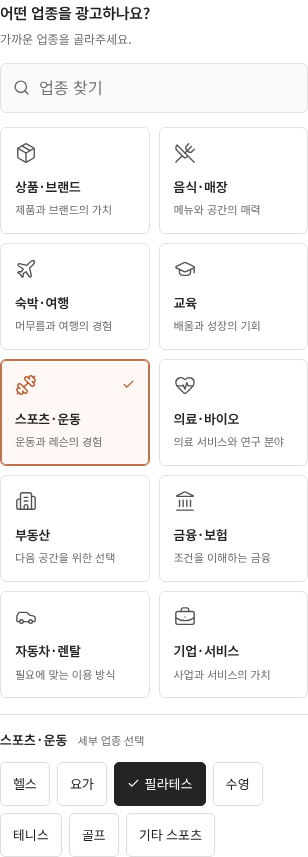
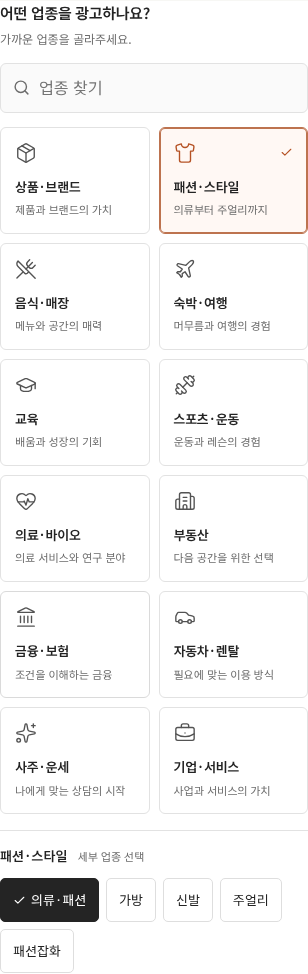
Expose fashion as a primary industry with product subcategories

diff --git a/src/industry.ts b/src/industry.ts
@@ -1,7 +1,7 @@
 // Stable leaf IDs keep saved projects compatible while the UI groups choices visually.
 export const productCategories = [
   ['packaging', '포장재'], ['food', '식품·음료'], ['beauty', '뷰티·생활용품'],
-  ['electronics', '전자제품'], ['fashion', '의류·패션잡화'], ['home', '가구·인테리어'],
+  ['electronics', '전자제품'], ['fashion', '의류·패션'], ['home', '가구·인테리어'],
   ['industrial', '산업용 부품·장비'], ['automotive', '자동차·모빌리티'],
   ['education', '교육·강의'], ['insurance', '보험'], ['services', '서비스 업종'], ['other', '기타 실물 상품'],
   ['restaurant', '음식점'], ['cafe', '카페·디저트'], ['lodging', '호텔·숙박'], ['travel', '여행'],
@@ -12,6 +12,7 @@ export const productCategories = [
   ['finance', '금융'], ['banking', '은행'], ['lease', '리스'], ['rental', '렌탈'],
   ['corporate', '기업 홍보'],
   ['tarot', '타로'], ['astrology', '별자리'], ['myeongri', '명리학'], ['sinjeom', '신점'],
+  ['bags', '가방'], ['shoes', '신발'], ['jewelry', '주얼리'], ['accessories', '패션잡화'],
 ] as const;
 export type ProductCategory = typeof productCategories[number][0];
 const legacyCategories:Readonly<Record<string,ProductCategory>>={saju:'myeongri',fortunehouse:'myeongri',divination:'sinjeom'};
@@ -19,10 +20,11 @@ export function resolveIndustryCategory(value:unknown):ProductCategory|undefined
   const category=typeof value==='string'?(legacyCategories[value]??value):undefined;
   return productCategories.find(([id])=>id===category)?.[0];
 }
-export type IndustryGroupId = 'products'|'dining'|'travel'|'learning'|'sports'|'health'|'property'|'finance'|'mobility'|'fortune'|'business';
+export type IndustryGroupId = 'products'|'fashion'|'dining'|'travel'|'learning'|'sports'|'health'|'property'|'finance'|'mobility'|'fortune'|'business';
 export type IndustryGroup = {id:IndustryGroupId;label:string;description:string;categoryIds:readonly ProductCategory[]};
 export const industryGroups:readonly IndustryGroup[] = [
-  {id:'products',label:'상품·브랜드',description:'제품과 브랜드의 가치',categoryIds:['packaging','food','beauty','electronics','fashion','home','industrial','other']},
+  {id:'products',label:'상품·브랜드',description:'제품과 브랜드의 가치',categoryIds:['packaging','food','beauty','electronics','home','industrial','other']},
+  {id:'fashion',label:'패션·스타일',description:'의류부터 주얼리까지',categoryIds:['fashion','bags','shoes','jewelry','accessories']},
   {id:'dining',label:'음식·매장',description:'메뉴와 공간의 매력',categoryIds:['restaurant','cafe']},
   {id:'travel',label:'숙박·여행',description:'머무름과 여행의 경험',categoryIds:['lodging','travel']},
   {id:'learning',label:'교육',description:'배움과 성장의 기회',categoryIds:['education']},
@@ -34,7 +36,7 @@ export const industryGroups:readonly IndustryGroup[] = [
   {id:'fortune',label:'사주·운세',description:'나에게 맞는 상담의 시작',categoryIds:['tarot','astrology','myeongri','sinjeom']},
   {id:'business',label:'기업·서비스',description:'사업과 서비스의 가치',categoryIds:['services','corporate']},
 ];
-const physicalCategories:readonly ProductCategory[] = ['packaging','food','beauty','electronics','fashion','home','industrial','other','automotive'];
+const physicalCategories:readonly ProductCategory[] = ['packaging','food','beauty','electronics','fashion','home','industrial','other','automotive','bags','shoes','jewelry','accessories'];
 export const isPhysicalCategory = (category:ProductCategory) => physicalCategories.includes(category);
 export function industryGroupFor(category:ProductCategory):IndustryGroup {
   return industryGroups.find(group=>group.categoryIds.includes(category))!;
@@ -68,10 +70,30 @@ const content:Record<ProductCategory,IndustryContent> = {
     ['제품 안내','입력한 기능과 사용 목적','내 일상에 맞는 기술을 만나보세요','제품 보기'],
     ['기능·사양 소개','확인된 기능과 호환 정보','사용 전에 확인하는 제품 사양','사양 보기'],
   ]},
-  fashion:{placeholder:'예: 브랜드 가죽 가방',audience:'디자인과 소재를 비교하는 패션 고객',directions:[
-    ['브랜드 소개','브랜드의 스타일과 분위기','취향을 표현하는 한 가지 선택','컬렉션 보기'],
-    ['제품 안내','스타일링과 사용 장면','오늘의 스타일을 만나보세요','제품 보기'],
-    ['소재·디테일 소개','제공한 소재와 사이즈 정보','디테일로 살펴보는 나의 선택','상세 정보 보기'],
+  fashion:{placeholder:'예: 브랜드 울 재킷',audience:'디자인과 소재·사이즈를 비교하는 패션 고객',directions:[
+    ['컬렉션 소개','브랜드의 스타일과 분위기','취향을 표현하는 한 가지 선택','컬렉션 보기'],
+    ['제품·스타일링','제품과 함께하는 일상의 장면','오늘의 스타일을 만나보세요','제품 보기'],
+    ['소재·사이즈 안내','제공한 소재와 사이즈 정보','디테일로 살펴보는 나의 선택','상세 정보 보기'],
+  ]},
+  bags:{placeholder:'예: 브랜드 레더 숄더백',audience:'가방의 디자인·소재·수납 구성을 비교하는 고객',directions:[
+    ['컬렉션 소개','가방과 브랜드의 분위기','나의 취향을 담는 가방','컬렉션 보기'],
+    ['제품·스타일링','가방과 어울리는 스타일','오늘의 스타일에 더하는 한 가지','가방 보기'],
+    ['소재·디테일 안내','제공한 소재·크기·수납 정보','선택 전에 살펴보는 가방의 디테일','제품 정보 보기'],
+  ]},
+  shoes:{placeholder:'예: 브랜드 레더 스니커즈',audience:'신발의 디자인·소재·사이즈를 비교하는 고객',directions:[
+    ['컬렉션 소개','신발과 브랜드의 분위기','발끝에서 시작하는 나의 스타일','컬렉션 보기'],
+    ['제품·스타일링','신발과 일상의 스타일링','오늘의 옷차림에 어울리는 선택','신발 보기'],
+    ['소재·사이즈 안내','제공한 소재·사이즈·관리 정보','구매 전에 살펴보는 신발 정보','사이즈 안내 보기'],
+  ]},
+  jewelry:{placeholder:'예: 브랜드 실버 링',audience:'주얼리의 디자인·소재·사이즈를 살펴보는 고객',directions:[
+    ['컬렉션 소개','주얼리의 형태와 브랜드 분위기','작은 디테일에 담는 나의 취향','컬렉션 보기'],
+    ['제품·스타일링','주얼리와 함께하는 스타일','일상에 더하는 하나의 포인트','주얼리 보기'],
+    ['소재·디테일 안내','제공한 소재·크기·관리 정보','선택 전에 살펴보는 주얼리 정보','상세 정보 보기'],
+  ]},
+  accessories:{placeholder:'예: 브랜드 실크 스카프',audience:'모자·벨트·스카프 등 패션잡화를 비교하는 고객',directions:[
+    ['컬렉션 소개','잡화와 브랜드의 스타일','취향을 완성하는 작은 선택','컬렉션 보기'],
+    ['제품·스타일링','잡화와 어울리는 옷차림','오늘의 스타일에 포인트를 더하세요','제품 보기'],
+    ['소재·디테일 안내','제공한 소재·크기·관리 정보','디테일로 살펴보는 패션잡화','상세 정보 보기'],
   ]},
   home:{placeholder:'예: 원목 라운지 체어',audience:'공간과 제품의 어울림을 비교하는 고객',directions:[
     ['공간 제안','취향이 담긴 공간의 분위기','내 취향으로 채우는 공간','컬렉션 보기'],

diff --git a/tests/industries.spec.ts b/tests/industries.spec.ts
@@ -20,12 +20,14 @@ async function serviceWizard(page:Page,category:string,name:string,creative=fals
  await wizard.getByRole('button',{name:'다음',exact:true}).click();return wizard;
 }
 
-test('eleven visual groups reveal only their own industries and all thirty-eight are searchable',async({page})=>{
+test('twelve visual groups expose fashion directly and all forty-two industries are searchable',async({page})=>{
  test.setTimeout(60000);await page.goto('/');
- await expect(page.locator('.business-options').getByRole('button')).toHaveCount(11);
- await page.getByRole('button',{name:'스포츠·운동 업종으로 광고 만들기',exact:true}).click();
+ await expect(page.locator('.business-options').getByRole('button')).toHaveCount(12);
+ await expect(page.locator('.business-options').getByRole('button').nth(1)).toHaveAccessibleName('패션·스타일 업종으로 광고 만들기');
+ await page.getByRole('button',{name:'패션·스타일 업종으로 광고 만들기',exact:true}).click();
  const wizard=page.locator('.create-page:visible'),picker=wizard.getByRole('group',{name:'업종 선택',exact:true});
- await expect(picker.getByRole('group',{name:'업종 그룹',exact:true}).getByRole('button')).toHaveCount(11);
+ await expect(picker.getByRole('group',{name:'패션·스타일 세부 업종',exact:true}).getByRole('button')).toHaveText(['의류·패션','가방','신발','주얼리','패션잡화']);
+ await expect(picker.getByRole('group',{name:'업종 그룹',exact:true}).getByRole('button')).toHaveCount(12);
  for(const group of industryGroups){
   await picker.getByRole('button',{name:group.label+' 업종 그룹',exact:true}).click();
   const options=picker.getByRole('group',{name:group.label+' 세부 업종',exact:true});

diff --git a/src/IndustryPicker.tsx b/src/IndustryPicker.tsx
@@ -1,11 +1,11 @@
 import {useEffect,useId,useRef,useState} from 'react';
-import {ArrowRight,BriefcaseBusiness,Building2,Car,Check,ChevronDown,Dumbbell,GraduationCap,HeartPulse,Landmark,Package,Plane,Search,Sparkles,UtensilsCrossed,X} from 'lucide-react';
+import {ArrowRight,BriefcaseBusiness,Building2,Car,Check,ChevronDown,Dumbbell,GraduationCap,HeartPulse,Landmark,Package,Plane,Search,Shirt,Sparkles,UtensilsCrossed,X} from 'lucide-react';
 import type {LucideIcon} from 'lucide-react';
 import {industryGroups,industryGroupFor,industryLabel,productCategories} from './industry';
 import type {ProductCategory} from './product';
 import './industry-picker.css';
 
-export const industryGroupIcons:Record<string,LucideIcon>={products:Package,dining:UtensilsCrossed,travel:Plane,learning:GraduationCap,sports:Dumbbell,health:HeartPulse,property:Building2,finance:Landmark,mobility:Car,fortune:Sparkles,business:BriefcaseBusiness};
+export const industryGroupIcons:Record<string,LucideIcon>={products:Package,fashion:Shirt,dining:UtensilsCrossed,travel:Plane,learning:GraduationCap,sports:Dumbbell,health:HeartPulse,property:Building2,finance:Landmark,mobility:Car,fortune:Sparkles,business:BriefcaseBusiness};
 export function IndustryIcon({groupId,size=22}:{groupId:string;size?:number}){const Icon=industryGroupIcons[groupId]??BriefcaseBusiness;return <Icon size={size} strokeWidth={1.5} aria-hidden="true"/>;}
 type Props={value:ProductCategory;onChange:(category:ProductCategory)=>void;compact?:boolean};
 const normalize=(text:string)=>text.toLocaleLowerCase().replace(/[\s·・,\-]/g,'');

diff --git a/docs/industry-advertising.md b/docs/industry-advertising.md
@@ -2,11 +2,12 @@
 
 ## 선택 화면
 
-홈과 새 광고 만들기에 대표 업종 11개를 카드로 배치했다. 선택한 그룹의 세부 업종만 펼쳐지며 검색으로 바로 선택할 수도 있다. 편집기의 업종 선택은 현재 선택한 업종 행으로 접어 두고 필요할 때 변경한다. 긴 전체 목록을 상시 표시하지 않는다.
+홈과 새 광고 만들기에 대표 업종 12개를 카드로 배치했다. 패션·스타일은 첫 줄의 독립 카드로 바로 찾을 수 있다. 선택한 그룹의 세부 업종만 펼쳐지며 검색으로 바로 선택할 수도 있다. 편집기의 업종 선택은 현재 선택한 업종 행으로 접어 두고 필요할 때 변경한다. 긴 전체 목록을 상시 표시하지 않는다.
 
 | 대표 그룹 | 세부 업종 |
 |---|---|
-| 상품·브랜드 | 포장재, 식품·음료, 뷰티·생활용품, 전자제품, 의류·패션잡화, 가구·인테리어, 산업용 부품·장비, 기타 실물 상품 |
+| 상품·브랜드 | 포장재, 식품·음료, 뷰티·생활용품, 전자제품, 가구·인테리어, 산업용 부품·장비, 기타 실물 상품 |
+| 패션·스타일 | 의류·패션, 가방, 신발, 주얼리, 패션잡화 |
 | 음식·매장 | 음식점, 카페·디저트 |
 | 숙박·여행 | 호텔·숙박, 여행 |
 | 교육 | 교육·강의 |
@@ -18,11 +19,13 @@
 | 기업·서비스 | 서비스 업종, 기업 홍보 |
 | 사주·운세 | 타로, 별자리, 명리학, 신점 |
 
-총 38개 분류이며, 위 표는 개발·검토용 전체 목록이다. 앱에서는 그룹과 선택한 세부 업종으로 나누어 보여준다. 사주·운세 카드를 열면 타로·별자리·명리학·신점 네 가지를 선택할 수 있다.
+총 42개 분류이며, 위 표는 개발·검토용 전체 목록이다. 앱에서는 그룹과 선택한 세부 업종으로 나누어 보여준다. 패션·스타일 카드는 의류·패션, 가방, 신발, 주얼리, 패션잡화 다섯 가지로 구분한다. 사주·운세 카드를 열면 타로·별자리·명리학·신점 네 가지를 선택할 수 있다.
 
 ## 요청문 없이 고르는 제작 방향
 
 새 제작은 업종과 이름 → 사진·정보 → 광고 방향으로 이어진다. 업종별 목적 카드 3개와 공통 시각 스타일 4개를 제공한다. 목적의 이름·문구·행동 안내는 업종에 맞게 바뀐다. 예를 들어 음식점은 매장 소개/방문·예약 안내/메뉴 이야기, 필라테스는 스튜디오 소개/수업·체험 안내/프로그램 소개, 은행은 은행·서비스 소개/이용·상담 안내/상품·조건 안내를 고른다.
+
+패션·스타일의 다섯 분야는 컬렉션·제품 소개와 소재·디테일 등 대상에 맞는 방향을 고를 수 있다. 자유 요청을 작성하지 않아도 추천 방향과 스타일 선택으로 시작한다.
 
 사주·운세의 네 분야는 각각 소개, 상담·예약, 이용 정보의 세 방향을 제공한다. 상담 분야·이용 방법 등 사업자가 제공한 정보를 바탕으로 구성한다.
 
@@ -34,13 +37,13 @@
 
 ## 상품·서비스·규격
 
-서비스 29종은 사진과 규격 없이 시작할 수 있다. 실물 상품 8종과 자동차는 원본 사진으로 직접 구성할 때 사진이 필요하다. 실제 음식 제품은 ‘식품·음료’, 음식점·메뉴·매장 안내는 ‘음식점’처럼 광고 대상에 맞춰 선택한다.
+서비스 29종은 사진과 규격 없이 시작할 수 있다. 실물 상품 12종과 자동차는 원본 사진으로 직접 구성할 때 사진이 필요하다. 실제 음식 제품은 ‘식품·음료’, 음식점·메뉴·매장 안내는 ‘음식점’처럼 광고 대상에 맞춰 선택한다.
 
 모든 업종에서 필요한 경우 규격 정보 사용을 켜고 형식과 표시 여부를 선택할 수 있다. 현재 치수 입력은 실물의 mm 치수다. 부동산 면적·이용 기간·수량·요금 등 다른 단위의 사업 정보는 서비스 소개나 추가 속성으로 입력한다. 업종을 서비스로 바꾸면 규격 사용·표시를 끄되 기존 치수 값과 사진·문구를 지우지 않는다. 원본 보존/창작 선택과 규격 표시 선택은 별도로 유지한다.
 
 ## 저장과 생성 요청
 
-기존 프로젝트 형식을 유지하며 이전 사주·궁합과 철학관 프로젝트는 명리학으로, 점·무속 프로젝트는 신점으로 복원한다. JSON 가져오기와 기기 저장본 복원에 적용하며 기존 사진·문구·규격은 유지한다. `campaign.creative`에 목적 ID·스타일 ID·선택 입력을 보관하고, 이전 프로젝트에는 이 필드가 없어도 열린다. 기기 저장·JSON 백업·복원과 생성 기획 내보내기에 포함한다.
+기존 프로젝트 형식을 유지하며 패션의 기존 분류 ID `fashion`도 유지한다. 기존 패션 프로젝트는 패션·스타일 그룹의 의류·패션으로 열리고 사진·문구·규격 등 저장 정보는 그대로 보존한다. 이전 사주·궁합과 철학관 프로젝트는 명리학으로, 점·무속 프로젝트는 신점으로 복원한다. JSON 가져오기와 기기 저장본 복원에 적용하며 기존 사진·문구·규격은 유지한다. `campaign.creative`에 목적 ID·스타일 ID·선택 입력을 보관하고, 이전 프로젝트에는 이 필드가 없어도 열린다. 기기 저장·JSON 백업·복원과 생성 기획 내보내기에 포함한다.
 
 생성 기획에는 업종 그룹·세부 업종·목적·시각 스타일 참고·현재 확정된 배경과 글자색·추가 지시를 함께 넣는다. 사용자가 나중에 직접 바꾼 화면 정보가 스타일의 참고 색상보다 우선한다. 상품 원본·치수·언어·고객이 제공한 사실 정보를 별도로 유지한다. 제품 효능·임상 결과·투자 수익·금리·가격·인증 등을 입력 사실 없이 만들지 않는 조건도 포함한다. 실제 모델의 이 조건 준수는 공급사 연결 후 추가 검증해야 한다.
 

diff --git a/docs/validation.md b/docs/validation.md
@@ -157,3 +157,10 @@
 - 이전 사주·궁합/철학관 분류는 명리학, 점·무속 분류는 신점으로 복원한다. JSON 가져오기와 IndexedDB 저장본 읽기에서 사진·문구·치수·프로젝트 식별자를 유지한다. 이름만 변경된 이전 대화 요청은 계속 사용하며 실제로 다른 업종으로 바꾸면 이전 요청을 섞지 않는다.
 - 관련 도메인 검사 25개(`industry`, `creative`, `conversation`), PC·모바일 업종 검사 10개가 모두 통과했다. 네 분야의 검색·사진/규격 없는 제작, 구형 JSON/기기 저장본 복원, 요청 이력 호환, 저장·PNG 출력 및 모바일 폭을 포함한다. 이번 변경과 무관한 전체 검사 파일은 재실행하지 않았다.
 - TypeScript·Vite·단일 HTML 빌드를 완료하고 독립 HTML의 실제 선택 화면으로 `docs/previews/fortune-industry-mobile.png`를 갱신했다. 실제 AI 연결이나 공개 앱 배포는 수행하지 않았다.
+
+## 패션 독립 카드와 세부 분류 — 2026-10-09
+
+- 상품·브랜드 안에 있던 패션을 홈과 업종 선택 목록 첫 줄의 독립 ‘패션·스타일’ 카드로 옮겼다. 의류·패션, 가방, 신발, 주얼리, 패션잡화로 나누고 컬렉션·제품/스타일링·소재/디테일 방향을 제공한다. 총 12개 그룹·42개 업종이며 서비스 29종은 그대로다.
+- 기존 `fashion` ID와 저장된 문구·사진·규격은 유지했다. 새 패션 분류는 실물 상품으로 다루며 원본 방식에서는 사진을 요구한다. 규격은 기존처럼 선택 사항이다.
+- 관련 도메인 검사 14개(`industry`, `creative`), PC·모바일 업종 검사 10개가 모두 통과했다. 홈 두 번째 카드에서 패션으로 직접 시작, 5개 세부 업종, 42개 업종 검색, 저장/복원·실물 사진 요구·PNG 출력과 모바일 폭을 확인했다. 변경과 무관한 전체 검사 파일은 재실행하지 않았다.
+- TypeScript·Vite·단일 HTML 빌드 성공. 독립 HTML에서 홈의 패션 카드와 PC·모바일 업종 선택 화면을 캡처해 `fashion-home-mobile.png`, `industry-picker-*`, `fortune-industry-mobile.png`를 갱신했다. 실제 AI 연결·공개 앱 배포는 수행하지 않았다.

diff --git a/README.md b/README.md
@@ -18,7 +18,9 @@
 
 ## 업종별 광고 방향과 프리미엄 스타일
 
-**11개 업종 카드 → 선택한 그룹의 세부 업종 → 광고 방향**으로 고릅니다. 음식점·식품·숙박·여행·리스/렌탈·교육·운동·병원·바이오·부동산·금융/보험·사주/운세 등 총 38개 분류를 제공합니다. 편집기에서는 업종 선택을 접어두고 검색하거나 변경할 수 있습니다.
+**12개 업종 카드 → 선택한 그룹의 세부 업종 → 광고 방향**으로 고릅니다. 패션·음식점·식품·숙박·여행·리스/렌탈·교육·운동·병원·바이오·부동산·금융/보험·사주/운세 등 총 42개 분류를 제공합니다. 편집기에서는 업종 선택을 접어두고 검색하거나 변경할 수 있습니다.
+
+**패션·스타일**은 홈과 업종 선택 화면 첫 줄의 독립 카드로 바로 찾을 수 있습니다. 의류·패션, 가방, 신발, 주얼리, 패션잡화 중 고르고 컬렉션·제품 소개나 소재·디테일에 맞는 광고 방향을 선택합니다. 기존 패션 프로젝트의 사진·문구·규격 등 저장 정보는 유지합니다.
 
 사주·운세 카드를 열면 **타로·별자리·명리학·신점** 네 가지로 구분해 선택할 수 있습니다. 각 분야의 소개, 상담·예약, 이용 정보에 맞춰 광고를 준비합니다.
 
@@ -27,6 +29,7 @@
 현재 새 공간·인물을 그리는 AI 생성은 연결 전이며 PNG는 원본 사진과 문구를 합성한 결과입니다. [전체 업종·사용 흐름·구현 범위](docs/industry-advertising.md)를 참고하세요.
 
 - [모바일 업종 선택 화면](docs/previews/industry-picker-mobile.png)
+- [홈 첫 줄의 패션·스타일 카드](docs/previews/fashion-home-mobile.png)
 - [사주·운세 업종 선택 화면](docs/previews/fortune-industry-mobile.png)
 - [모바일 광고 방향 화면](docs/previews/industry-direction-mobile.png)
 - [스타일을 적용한 문구 중심 광고 예시](docs/previews/industry-service-layout-example.png) — AI 이미지 생성 결과가 아닌 편집용 템플릿 출력입니다.

diff --git a/docs/funding-technical-brief.md b/docs/funding-technical-brief.md
@@ -33,7 +33,7 @@
 
 - 모바일/PC 반응형 홈, 3단계 제작, 프로젝트 목록·검색, 사용 안내, 편집 화면.
 - 상품 사진 원본 바이트·SHA-256·화면비 보존, 한/영 문구 직접 편집, 배경 변경.
-- 11개 그룹·38개 업종 카드 선택, 업종별 광고 방향과 스타일 추천, 선택적 규격. 사주·운세 카드에서 타로·별자리·명리학·신점 네 분야를 구분해 선택하고 소개·상담 예약·이용 정보를 안내한다.
+- 12개 그룹·42개 업종 카드 선택, 업종별 광고 방향과 스타일 추천, 선택적 규격. 첫 줄의 패션·스타일 독립 카드에서 의류·패션·가방·신발·주얼리·패션잡화를 선택하고 컬렉션·제품·소재·디테일에 맞는 광고 방향을 고른다. 사주·운세 카드에서는 타로·별자리·명리학·신점을 구분해 선택하고 소개·상담 예약·이용 정보를 안내한다.
 - 대화 요청 보관·수정 범위 선택·확인 후 빠른 편집·대화 백업. 실제 AI 대화는 연결 전.
 - 정면 사진에서 사용자 지정 두 변과 규격 비례 비교. 실물 전체의 3D 재현은 아님.
 - 7개 광고 비율의 PNG 출력, IndexedDB 기기 저장, 프로젝트 JSON 백업·복원.
